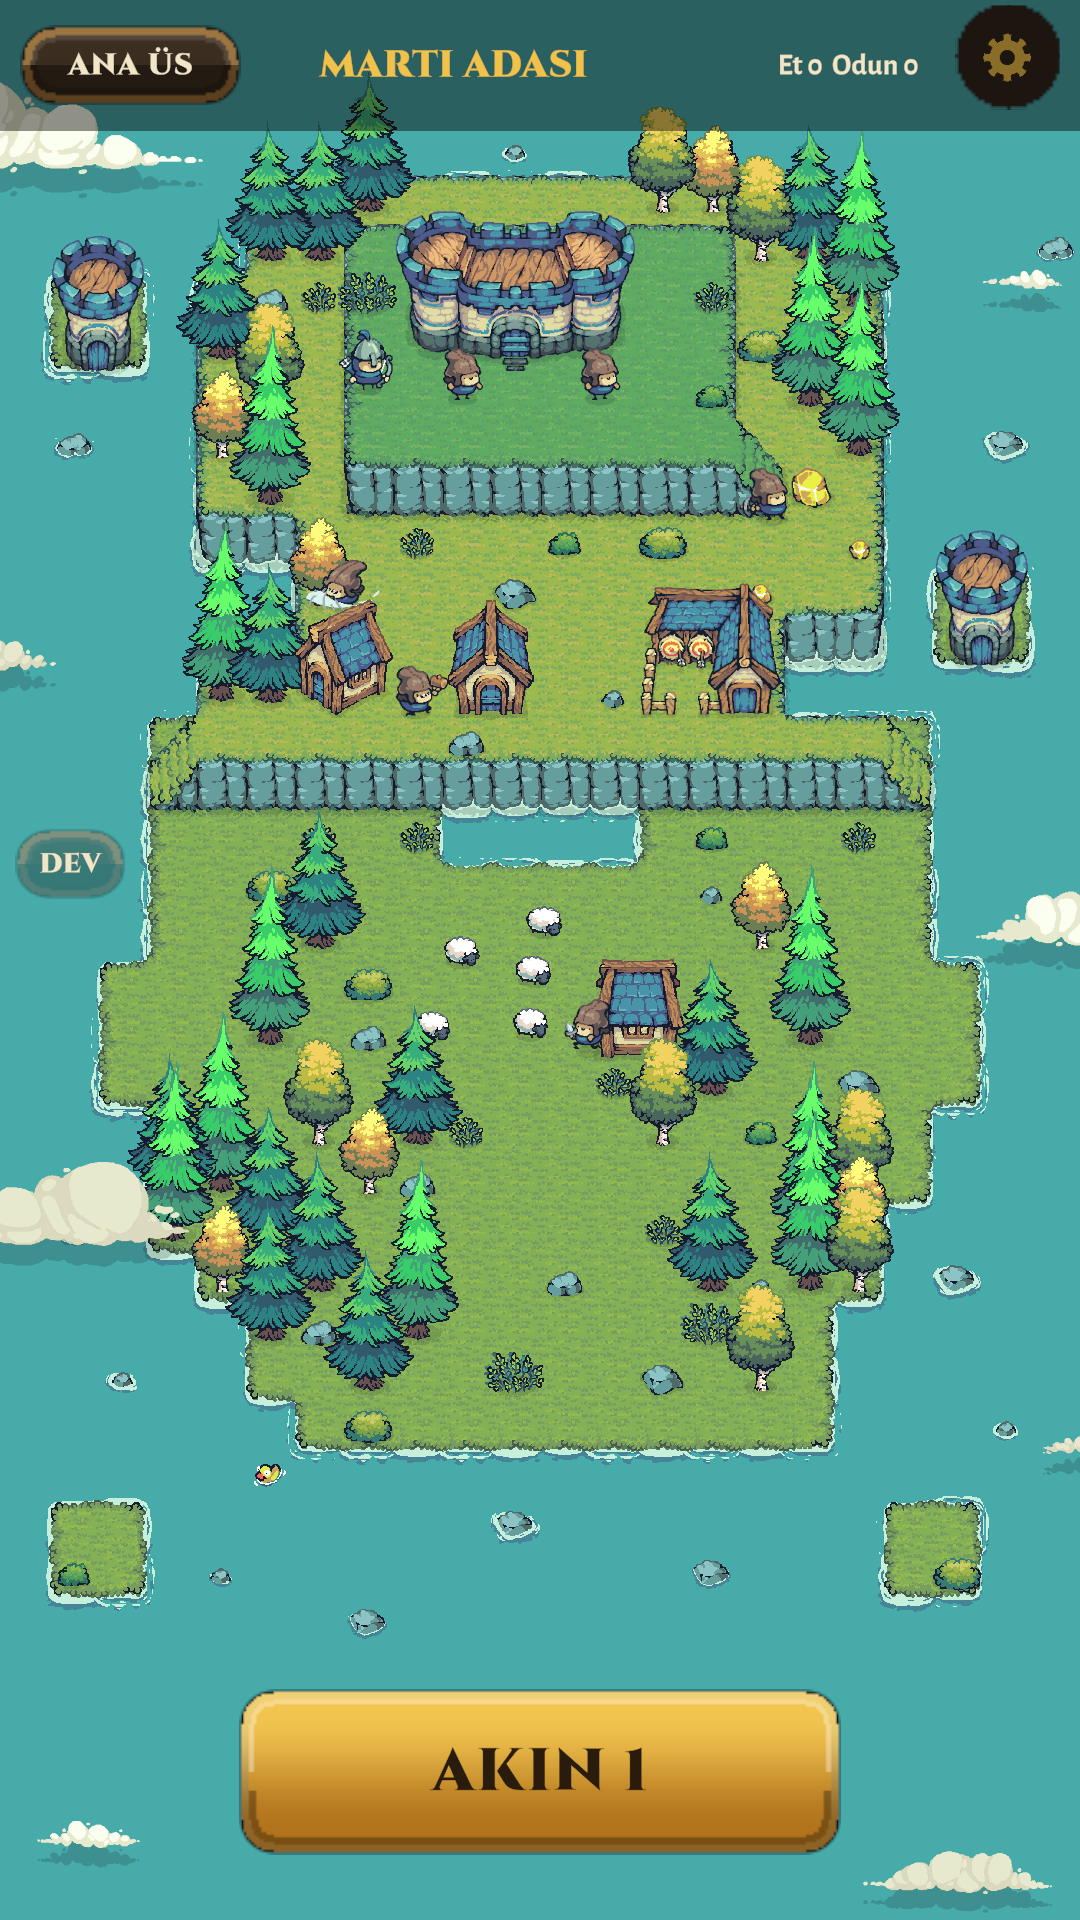
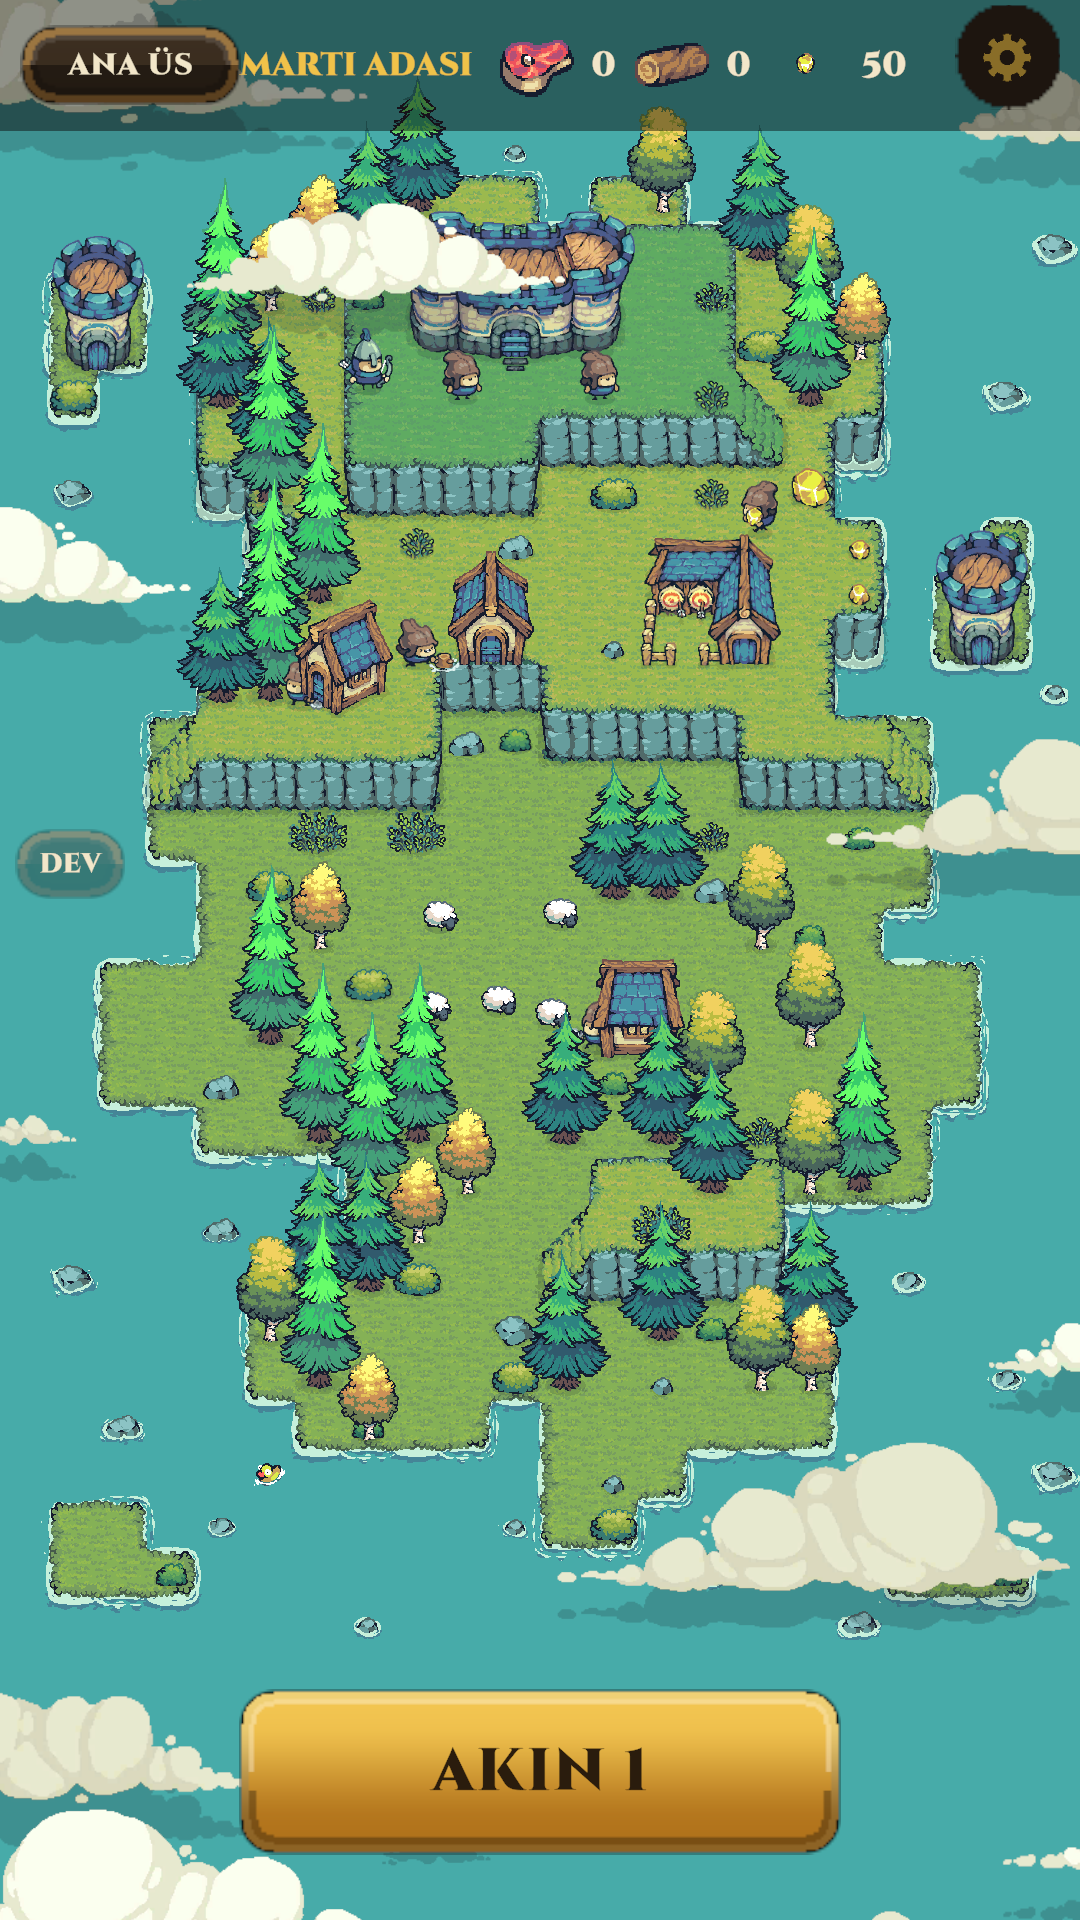
feat(ada v2): üst çubukta Tiny Swords Et/Odun/altın simgeleri; Faz A ekran görüntüleri yenilendi

diff --git a/Assets/Scripts/Island/IslandHud.cs b/Assets/Scripts/Island/IslandHud.cs
@@ -32,7 +32,7 @@ public sealed class IslandHud : MonoBehaviour
     private IslandArcher archer;
 
     private RectTransform safe;
-    private TextMeshProUGUI titleText, resText, castleText, hintText, respawnText, prepTitle, prepInfo, autoLabel, homeLabel;
+    private TextMeshProUGUI titleText, meatText, woodText, goldText, castleText, hintText, respawnText, prepTitle, prepInfo, autoLabel, homeLabel;
     private Image castleFill, hintBg, chargeRing, fireFace;
     private GameObject prepPanel, fireRoot, resultPanel, autoRoot, dock, castleBar;
     private bool prepOpen;
@@ -91,10 +91,13 @@ public sealed class IslandHud : MonoBehaviour
             new Vector2(0, 0.5f), new Vector2(0, 0.5f), new Vector2(8, -16), new Vector2(96, 16), 12);
         homeLabel = homeButton.GetComponentInChildren<TextMeshProUGUI>();
         homeButton.onClick.AddListener(OnHome);
-        titleText = ReferenceUiVisuals.Text(bar.transform, "Title", "", 15, Gold, TextAlignmentOptions.Center,
-            new Vector2(0.24f, 0), new Vector2(0.60f, 1), Vector2.zero, Vector2.zero, true);
-        resText = ReferenceUiVisuals.Text(bar.transform, "Resources", "", 12, ReferenceUiVisuals.Light, TextAlignmentOptions.Right,
-            new Vector2(0.58f, 0), new Vector2(0.86f, 1), Vector2.zero, new Vector2(-4, 0), false, true);
+        titleText = ReferenceUiVisuals.Text(bar.transform, "Title", "", 13, Gold, TextAlignmentOptions.Center,
+            new Vector2(0.21f, 0), new Vector2(0.45f, 1), Vector2.zero, Vector2.zero, true);
+        // Kaynaklar: Tiny Swords simgeleri (Et, Odun, Ana Üs altını) + sayı
+        var catalog = IslandVisualCatalog.Instance;
+        meatText = ResourceChip(bar.transform, 0, catalog != null ? catalog.meatIcon : null);
+        woodText = ResourceChip(bar.transform, 1, catalog != null ? catalog.woodIcon : null);
+        goldText = ResourceChip(bar.transform, 2, catalog != null ? catalog.Single("gold_icon") : null);
 
         var barBg = ReferenceUiVisuals.Image(safe, "CastleBar", new Vector2(0.18f, 1), new Vector2(0.82f, 1),
             new Vector2(0, -74), new Vector2(0, -58), new Color(0.05f, 0.04f, 0.03f, 0.85f));
@@ -109,6 +112,24 @@ public sealed class IslandHud : MonoBehaviour
     }
 
     /// <summary>Alt dock (görünüm modu): AKIN düğmesi. Akın yalnız buradan başlar; ada girişte üs görünümü açılır (v2 §3).</summary>
+    private TextMeshProUGUI ResourceChip(Transform bar, int index, Sprite icon)
+    {
+        float x0 = 0.45f + index * 0.125f;
+        var group = ReferenceUiVisuals.Image(bar, "Res" + index, new Vector2(x0, 0), new Vector2(x0 + 0.12f, 1),
+            Vector2.zero, Vector2.zero, new Color(0f, 0f, 0f, 0f));
+        group.raycastTarget = false;
+        var image = ReferenceUiVisuals.Image(group.transform, "Icon", new Vector2(0, 0.5f), new Vector2(0, 0.5f),
+            new Vector2(0, -20), new Vector2(40, 20), Color.white);
+        image.sprite = icon;
+        image.preserveAspect = true;
+        image.raycastTarget = false;
+        var value = ReferenceUiVisuals.Text(group.transform, "Value", "0", 14, ReferenceUiVisuals.Light, TextAlignmentOptions.Left,
+            new Vector2(0, 0), Vector2.one, new Vector2(42, 0), new Vector2(40, 0), true);
+        value.textWrappingMode = TextWrappingModes.NoWrap;
+        value.overflowMode = TextOverflowModes.Overflow;
+        return value;
+    }
+
     private void BuildDock()
     {
         var root = new GameObject("Dock", typeof(RectTransform));
@@ -386,7 +407,10 @@ public sealed class IslandHud : MonoBehaviour
                 $"Coastal Keep {Mathf.CeilToInt(c.CurrentHealth)}/{Mathf.CeilToInt(c.MaxHealth)}");
         }
         var save = IslandSession.Save;
-        resText.text = save != null ? L.T($"Et {save.meat}  Odun {save.wood}", $"Meat {save.meat}  Wood {save.wood}") : "";
+        meatText.text = save != null ? save.meat.ToString() : "0";
+        woodText.text = save != null ? save.wood.ToString() : "0";
+        var player = GameManager.Instance != null ? GameManager.Instance.PlayerData : null;
+        goldText.text = player != null ? player.gold.ToString() : "0";
         titleText.text = raid.Phase == IslandRaidManager.State.Running
             ? L.T($"AKIN {raid.Akin} · DALGA {raid.Wave}/{raid.TotalWaves}", $"RAID {raid.Akin} · WAVE {raid.Wave}/{raid.TotalWaves}")
             : L.T("MARTI ADASI", "GULL ISLE");
